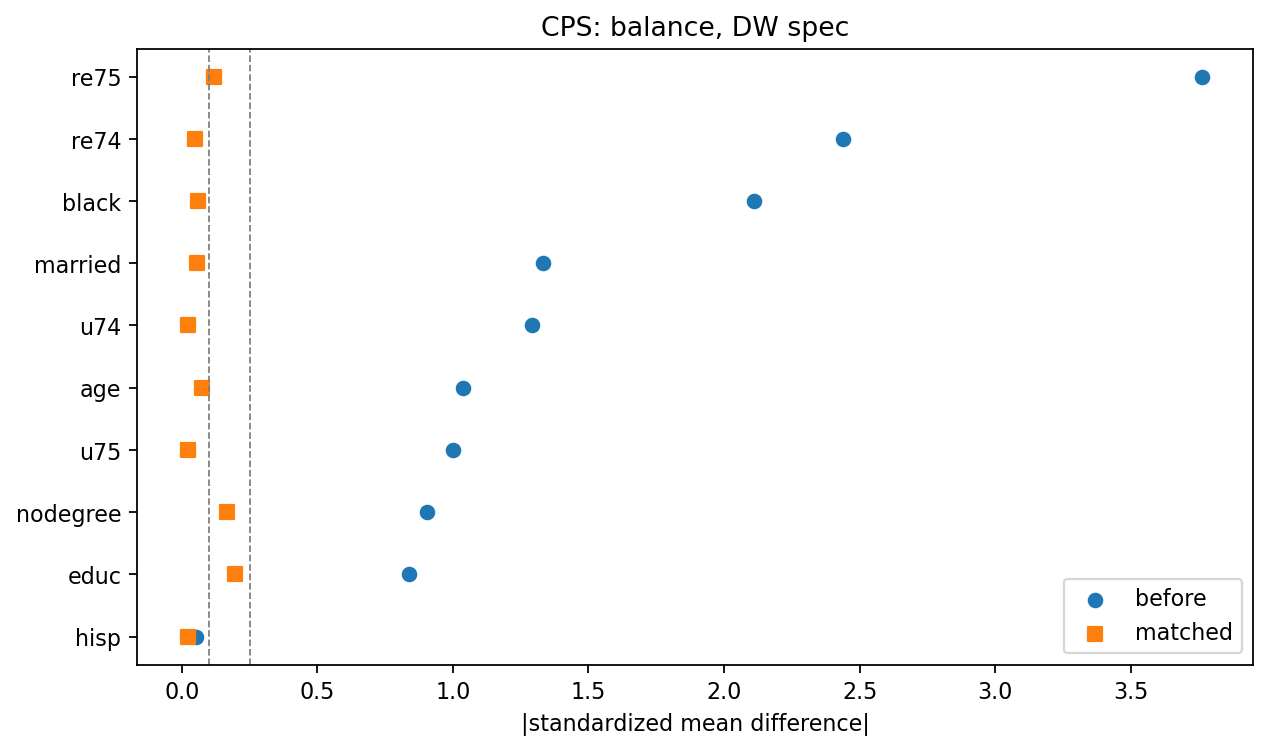
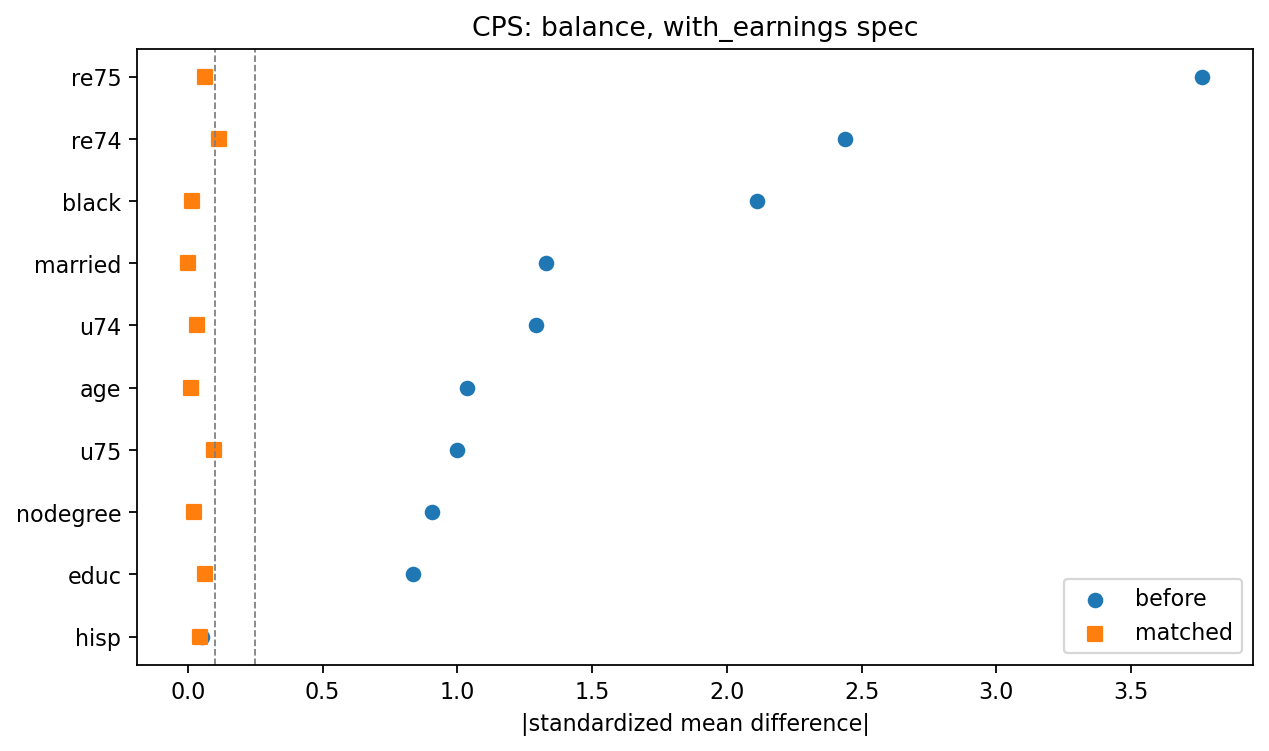
Fit the propensity model unpenalized, and make with_earnings the headline spec
sklearn's LogisticRegression applies an L2 penalty by default at C=1.0, so the
project had been fitting a penalized logit without anyone choosing that. C is the
inverse penalty strength, and balance after matching degrades monotonically as
the penalty is strengthened -- max |SMD| on the headline covariates:

              CPS    PSID
  C=0.01     0.344   0.514
  C=1.0      0.186   0.223
  none       0.115   0.106

A propensity model is not a prediction model. Nothing here is applied to unseen
data; the score's only job is to produce a number that balances covariates when
conditioned on. Shrinking coefficients toward zero makes it weigh each covariate
less, which is exactly what makes it less able to equalize them. Expressed as
NO_PENALTY = 1e6 rather than penalty=None because that keyword's spelling is not
portable across supported sklearn versions; verified to agree to 2e-7.

The headline specification is now the covariate set notebook 02's DAG justifies,
selected by the disjunctive cause criterion. The dw arm is dropped.

Also fixes the spec-naming defect flagged earlier: run_all.py named its own
columns under its own labels, so the notebooks and results.csv described the same
models under different names. It now selects columns through
data.covariate_spec. Verified the two definitions were column-identical before
unifying, so no model changed by renaming.

Headline results, truth 1,794:

  CPS   match 0.2 logit-SD no replace   1,841 [336, 3,345]   max|SMD| 0.12
[…]

diff --git a/scripts/run_all.py b/scripts/run_all.py
@@ -8,7 +8,7 @@ import sys, pathlib
 import numpy as np, pandas as pd
 ROOT = pathlib.Path(__file__).resolve().parents[1]
 sys.path.insert(0, str(ROOT))
-from src import psm, figures
+from src import psm, figures, data
 
 RAW = ROOT / "data/raw/lalonde"
 OUT = ROOT / "outputs" / "tables"; OUT.mkdir(parents=True, exist_ok=True)
@@ -18,21 +18,20 @@ nsw_t, nsw_c = load("nswre74_treated"), load("nswre74_control")
 pools = {"CPS": load("cps_controls"), "PSID": load("psid_controls")}
 
 
+# Specifications are defined once, in src/data.py. This script used to name its own
+# columns under its own labels, which meant the notebooks and results.csv described the
+# same models under different names and could not be cross-referenced.
+HEADLINE = "with_earnings"          # the covariate set the DAG in notebook 02 justifies
+SPECS = ["demographics", HEADLINE]
+
+
 def features(df: pd.DataFrame, spec: str) -> pd.DataFrame:
-    X = df[["age", "educ", "black", "hisp", "married", "nodegree"]].copy()
-    if spec == "no_earnings":          # deliberately omit pre-treatment earnings
-        return X
-    X["re74"], X["re75"] = df.re74, df.re75
-    X["u74"], X["u75"] = (df.re74 == 0).astype(int), (df.re75 == 0).astype(int)
-    if spec == "dw":                   # Dehejia-Wahba style nonlinear terms
-        X["age2"], X["age3"] = df.age ** 2, df.age ** 3
-        X["educ2"] = df.educ ** 2
-        X["re74_2"], X["re75_2"] = df.re74 ** 2, df.re75 ** 2
-        X["educ_re74"] = df.educ * df.re74
-    return X
+    """Columns for one specification, per src.data.covariate_spec."""
+    df = data.add_derived(df)
+    return df[data.covariate_spec(spec)]
 
 
-BALANCE_COLS = ["age", "educ", "black", "hisp", "married", "nodegree", "re74", "re75", "u74", "u75"]
+BALANCE_COLS = data.covariate_spec(HEADLINE)
 
 # ------------------------------------------------------------ benchmark
 truth = nsw_t.re78.mean() - nsw_c.re78.mean()
@@ -50,12 +49,12 @@ for pool_name, pool in pools.items():
     rows.append(dict(pool=pool_name, spec="-", method="naive difference", est=naive, ci_lo=np.nan, ci_hi=np.nan, n=len(df)))
     print(f"\n=== {pool_name} controls (n={len(pool):,}) | naive diff = {naive:,.0f}")
 
-    for spec in ["no_earnings", "basic", "dw"]:
+    for spec in SPECS:
         X = features(df, spec)
-        Xb = features(df, "basic")[BALANCE_COLS]
-        ps = psm.fit_propensity(X, t, model="logit", C=1.0)
+        Xb = features(df, HEADLINE)[BALANCE_COLS]
+        ps = psm.fit_propensity(X, t, model="logit")   # unpenalized; see psm.NO_PENALTY
         auc_note = f"ps mean t={ps[t==1].mean():.3f} c={ps[t==0].mean():.3f}; controls with ps>0.5: {(ps[t==0]>0.5).sum()}"
-        print(f"\n  spec={spec:12s} {auc_note}")
+        print(f"\n  spec={spec:14s} {auc_note}")
 
         # matching variants
         variants = {
@@ -72,8 +71,8 @@ for pool_name, pool in pools.items():
             mx = bal["matched"].abs().max()
             rows.append(dict(pool=pool_name, spec=spec, method=label, est=r["est"], ci_lo=r["ci_lo"], ci_hi=r["ci_hi"], n=r["n_pairs"], max_abs_smd=mx))
             print(f"    {label:42s} ATT={r['est']:8,.0f}  CI[{r['ci_lo']:7,.0f},{r['ci_hi']:7,.0f}]  pairs={r['n_pairs']:3d}  max|SMD|={mx:.2f}")
-            if spec == "dw" and "with replace" in label:
-                figures.love_plot(bal, f"love_{pool_name.lower()}", f"{pool_name}: balance, DW spec")
+            if spec == HEADLINE and "with replace" in label:
+                figures.love_plot(bal, f"love_{pool_name.lower()}", f"{pool_name}: balance, {HEADLINE} spec")
                 figures.overlap_plot(ps, t, f"overlap_{pool_name.lower()}", f"{pool_name}: propensity overlap")
 
         # weighting / doubly robust

diff --git a/src/psm.py b/src/psm.py
@@ -16,10 +16,32 @@ import statsmodels.api as sm
 
 
 # ---------------------------------------------------------------- propensity
+# sklearn's LogisticRegression applies an L2 penalty by default at C=1.0, where C is the
+# INVERSE penalty strength. A very large C makes the penalty negligible, which is what we
+# want here. Expressed as a large C rather than penalty=None because the keyword spelling
+# is not portable across the sklearn versions this project supports ('none' in 1.0-1.3,
+# None from 1.2). Verified equivalent: C=1e6 and penalty='none' agree to 2e-7 on every
+# coefficient and every fitted score.
+NO_PENALTY = 1e6
+
+
 def fit_propensity(X: pd.DataFrame, t: np.ndarray, model: str = "logit",
-                   C: float = 1.0, out_of_fold: bool = False, seed: int = 0) -> np.ndarray:
+                   C: float = NO_PENALTY, out_of_fold: bool = False, seed: int = 0) -> np.ndarray:
     """Return P(T=1|X). model in {'logit','gbm'}. out_of_fold=True gives
-    cross-fitted scores (5-fold), which avoids in-sample overfit for flexible models."""
+    cross-fitted scores (5-fold), which avoids in-sample overfit for flexible models.
+
+    ``C`` defaults to :data:`NO_PENALTY`, i.e. an unpenalized logistic regression.
+
+    This is deliberate, and it is where a propensity model parts company with a prediction
+    model. Regularization exists to stop coefficients chasing noise so a model generalizes
+    to unseen data. Nothing here is ever applied to unseen data: the score's only job is to
+    produce a number such that, conditioning on it, the covariates come out balanced.
+    Shrinking the coefficients toward zero makes the score weigh each covariate less, which
+    is precisely what makes it less able to equalize them. On this data, balance after
+    matching degrades monotonically as the penalty is strengthened.
+
+    The criterion for choosing ``C`` is therefore balance, never accuracy, and never AUC.
+    """
     if model == "logit":
         clf = LogisticRegression(C=C, max_iter=2000)
         Xm = StandardScaler().fit_transform(X)

diff --git a/README.md b/README.md
@@ -24,19 +24,19 @@ The question becomes: can the pipeline recover $1,794 from the observational dat
 
 ## Headline results
 
-Covariates include pre-treatment earnings plus the Dehejia-Wahba nonlinear terms. Outcome is 1978 earnings in dollars.
+Covariates are the ten selected by the DAG in [notebook 02](notebooks/02_propensity_model.ipynb): age, education, race, marital status, degree, 1974 and 1975 earnings, and a zero-earnings flag for each of those years. The propensity model is an unpenalized logistic regression. Outcome is 1978 earnings in dollars.
 
 | Method | CPS controls | PSID controls |
 |---|---|---|
 | Naive difference | -8,498 | -15,205 |
-| Matching, 0.2 logit-SD caliper, no replacement | **1,752** [92, 3,413] | -396 [-2,393, 1,602] |
-| Matching, with replacement | 2,104 [678, 3,531] | 2,384 [1,087, 3,682] |
-| IPW (ATT weights) | 1,630 [227, 3,034] | 2,764 [1,082, 4,446] |
-| AIPW (doubly robust) | 1,788 [283, 3,254] | 2,899 [831, 4,987] |
+| Matching, 0.2 logit-SD caliper, no replacement | **1,841** [336, 3,345] | -1,134 [-3,505, 1,237] |
+| Matching, with replacement | 1,461 [32, 2,890] | 885 [-571, 2,341] |
+| IPW (ATT weights) | 1,641 [258, 3,024] | 2,783 [1,152, 4,414] |
+| AIPW (doubly robust) | 1,678 [409, 3,099] | 2,914 [374, 5,151] |
 
-The naive comparison is not merely biased, it has the **wrong sign** and is off by more than $10,000. After matching, every ATT estimator on the CPS pool produces a confidence interval covering the experimental benchmark.
+The naive comparison is not merely biased, it has the **wrong sign** and is off by more than $10,000. After adjustment, **every** estimator on the CPS pool produces a confidence interval covering the experimental benchmark. The PSID pool is the harder test and only three of five do.
 
-Covariate balance improves from |SMD| up to 2.4 before matching to below 0.2 after:
+Covariate balance improves from |SMD| of 3.76 before matching to 0.12 after:
 
 ![Covariate balance, CPS pool](outputs/figures/psm_love_cps.png)
 
@@ -44,10 +44,11 @@ Covariate balance improves from |SMD| up to 2.4 before matching to below 0.2 aft
 
 The interesting findings are not that the method works. They are the conditions under which it fails.
 
-- **Omitting pre-treatment outcomes flips the sign.** Drop the 1974 and 1975 earnings variables and the estimate moves from +1,752 to roughly -3,000, while balance diagnostics on the remaining covariates still look acceptable. The confounder you did not measure is the one that matters.
-- **Matching without replacement can silently change the estimand.** On the PSID pool, no-replacement matching retains only 79 of 185 treated units. The result is no longer the ATT for the treated population, and nothing in the standard output tells you.
-- **A fixed caliper on the raw probability scale is fragile.** A caliper of 0.01 behaves very differently depending on how propensity scores are distributed. Calipers expressed in standard deviations of the logit are more portable.
-- **ATT and ATE are different questions.** On PSID they differ by about $3,300, and the ATE has confidence intervals spanning zero because it requires extrapolating to a population containing no comparable treated units.
+- **Omitting pre-treatment outcomes flips the sign, and the diagnostics do not warn you.** Drop the 1974 and 1975 earnings variables and the CPS estimate moves from **+1,841 to -3,414**. Meanwhile every covariate still in the model balances to |SMD| ≤ **0.055**, far inside the conventional 0.1 threshold — textbook-clean balance on a badly wrong answer. The omitted earnings variables sit at |SMD| 2.12, but you would only know to look at them if you already suspected they mattered.
+- **Matching without replacement can silently change the estimand.** On the PSID pool, no-replacement matching retains only 78 of 185 treated units. The result is no longer the ATT for the treated population, and nothing in the standard output tells you.
+- **Matching with replacement trades the estimand back for balance.** On PSID it keeps all 185 treated units but max |SMD| rises to **0.42**, worse than the conventional 0.25 threshold. The two failure modes are not independent: you are choosing which one to accept.
+- **A fixed caliper on the raw probability scale is fragile.** A caliper of 0.01 keeps 154 of 185 CPS pairs where one of 0.2 logit-SD keeps 175, because a fixed probability width means something different wherever the scores happen to pile up. Calipers in standard deviations of the logit are more portable.
+- **ATT and ATE are different questions.** On PSID they differ by about $3,350, and the ATE interval spans zero because it requires extrapolating to a population containing no comparable treated units.
 - **Confidence intervals are wide, and that is the data's fault.** The randomized benchmark itself has a CI spanning $2,641. With 185 treated units, no estimator can be more precise than that. Point estimates matching to the dollar are luck, not evidence.
 
 ## Repository layout
@@ -65,11 +66,11 @@ src/data.py         loading and covariate specifications
 
 notebooks/          the analysis, one notebook per pipeline stage
   01_data_prep         raw files to analysis sample
-  02_propensity_model  propensity scores and overlap
+  02_propensity_model  the DAG, the covariate choice, and the scores
   03_matching_balance  matching and balance diagnostics
   04_effects_att       ATT, IPW, doubly robust, against the benchmark
 
-scripts/run_all.py  reproduces every number: 2 pools x 3 specs x 6 estimators
+scripts/run_all.py  reproduces every number: 2 pools x 2 specs x 6 estimators
 outputs/            generated artifacts: data/ between stages, figures/, tables/
 data/raw/lalonde/   the four source files, with provenance
 ```

diff --git a/docs/background.md b/docs/background.md
@@ -149,9 +149,10 @@ score matching works." It is:
 > cannot tell from inside the analysis whether they do.
 
 This repository demonstrates it on the same data. Drop the 1974 and 1975 earnings variables and
-the estimate moves from **+$1,752 to roughly -$3,000** — a sign flip — while the balance
-diagnostics on the remaining covariates still look perfectly acceptable. The confounder you did
-not measure is the one that decides your answer.
+the CPS estimate moves from **+$1,841 to -$3,414** — a sign flip — while every covariate still in
+the model balances to a standardized difference of 0.055 or less, comfortably inside the
+conventional threshold. The diagnostics you are allowed to look at stay clean. The confounder you
+did not measure is the one that decides your answer.
 
 ## References
 
